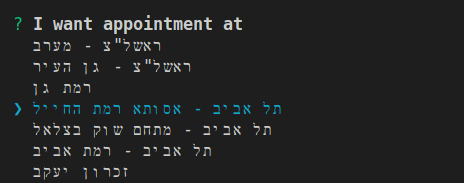
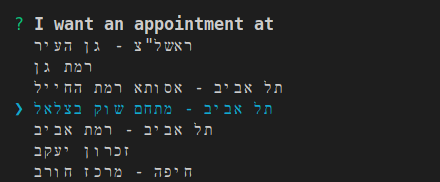
fix typo

diff --git a/src/index.ts b/src/index.ts
@@ -28,7 +28,7 @@ async function getUserInput(): Promise<{ clinic: string; numOfDays: number }> {
     {
       type: "list",
       name: "clinic",
-      message: "I want appointment at",
+      message: "I want an appointment at",
       choices,
       filter(label: string) {
         return choicesMap[label];

diff --git a/dist/index.js b/dist/index.js
@@ -21,7 +21,7 @@ async function getUserInput() {
         {
             type: "list",
             name: "clinic",
-            message: "I want appointment at",
+            message: "I want an appointment at",
             choices,
             filter(label) {
                 return choicesMap[label];
